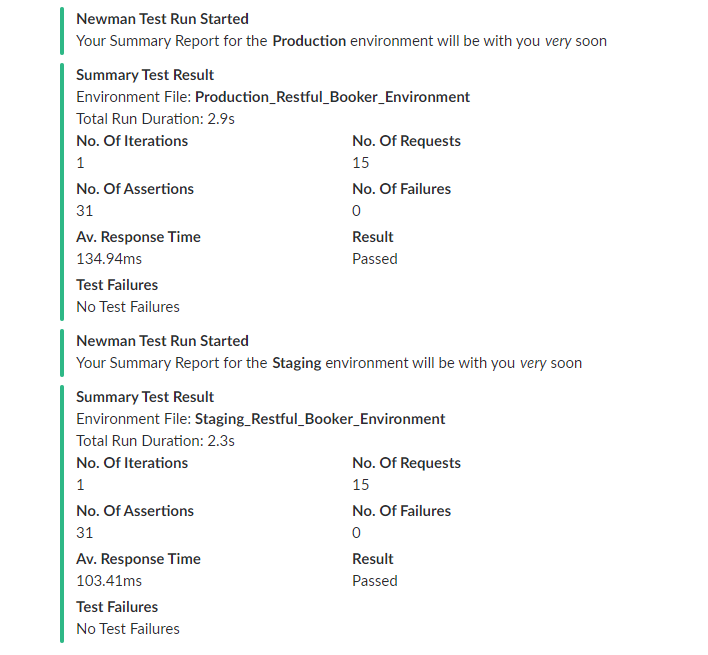
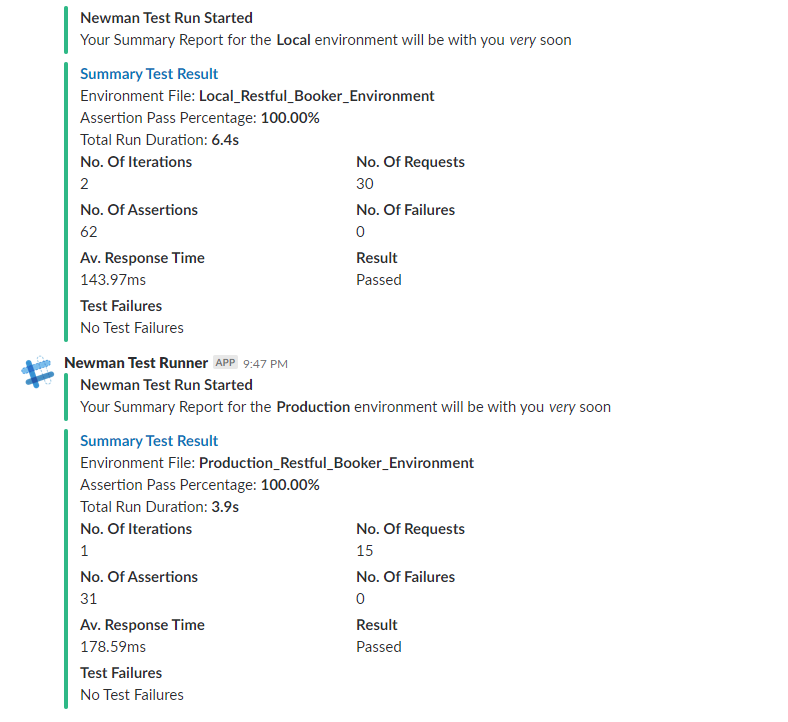
Added the Assertion Pass Percentage to the Slack message

Changed region(s): [[0.0311, 0.0, 0.8701, 0.9771], [0.435, 0.7023, 0.6525, 0.916], [0.435, 0.1832, 0.6525, 0.4275]]

diff --git a/app.js b/app.js
@@ -23,6 +23,10 @@ class TestRunContext {
         this.failures         = newmanResult.run.failures
     }
     
+    get percentagePassed() {
+        return (this.testResultTotal * 100 / (this.testResultTotal + this.testResultFailed)).toFixed(2)
+    }
+
     get envFileName() {
         return this.environment === undefined ? "No Environment file specified for the Newman Run" : this.environment
     }
@@ -53,7 +57,7 @@ class TestRunContext {
                     "color": `${this.colour}`,
                     "title": "Summary Test Result",
                     "title_link": "https://newman-app.localtunnel.me/htmlResults.html",
-                    "text": `Environment File: *${this.envFileName}*\n Total Run Duration: ${this.runDuration}`,
+                    "text": `Environment File: *${this.envFileName}*\nAssertion Pass Percentage: *${this.percentagePassed}%*\nTotal Run Duration: *${this.runDuration}*`,
                     "mrkdwn": true,
                     "fields": [
                         {
